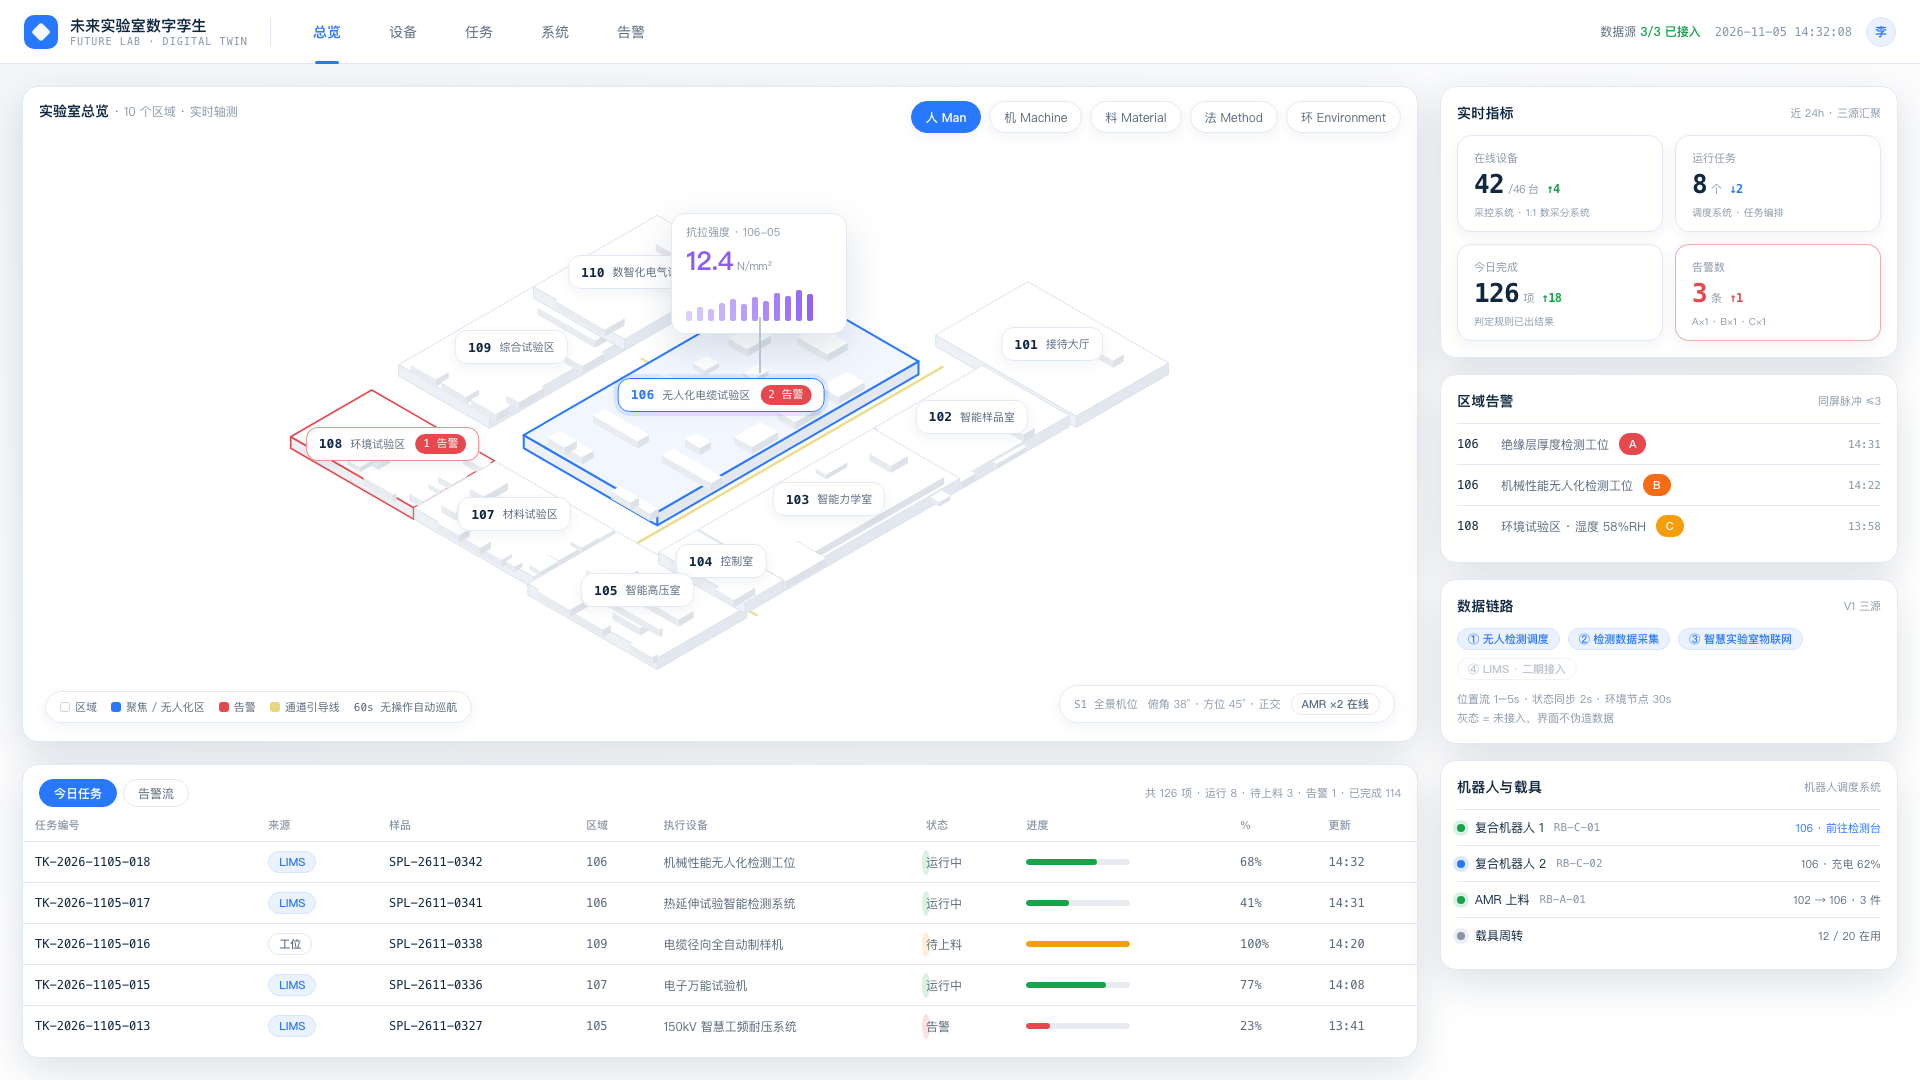
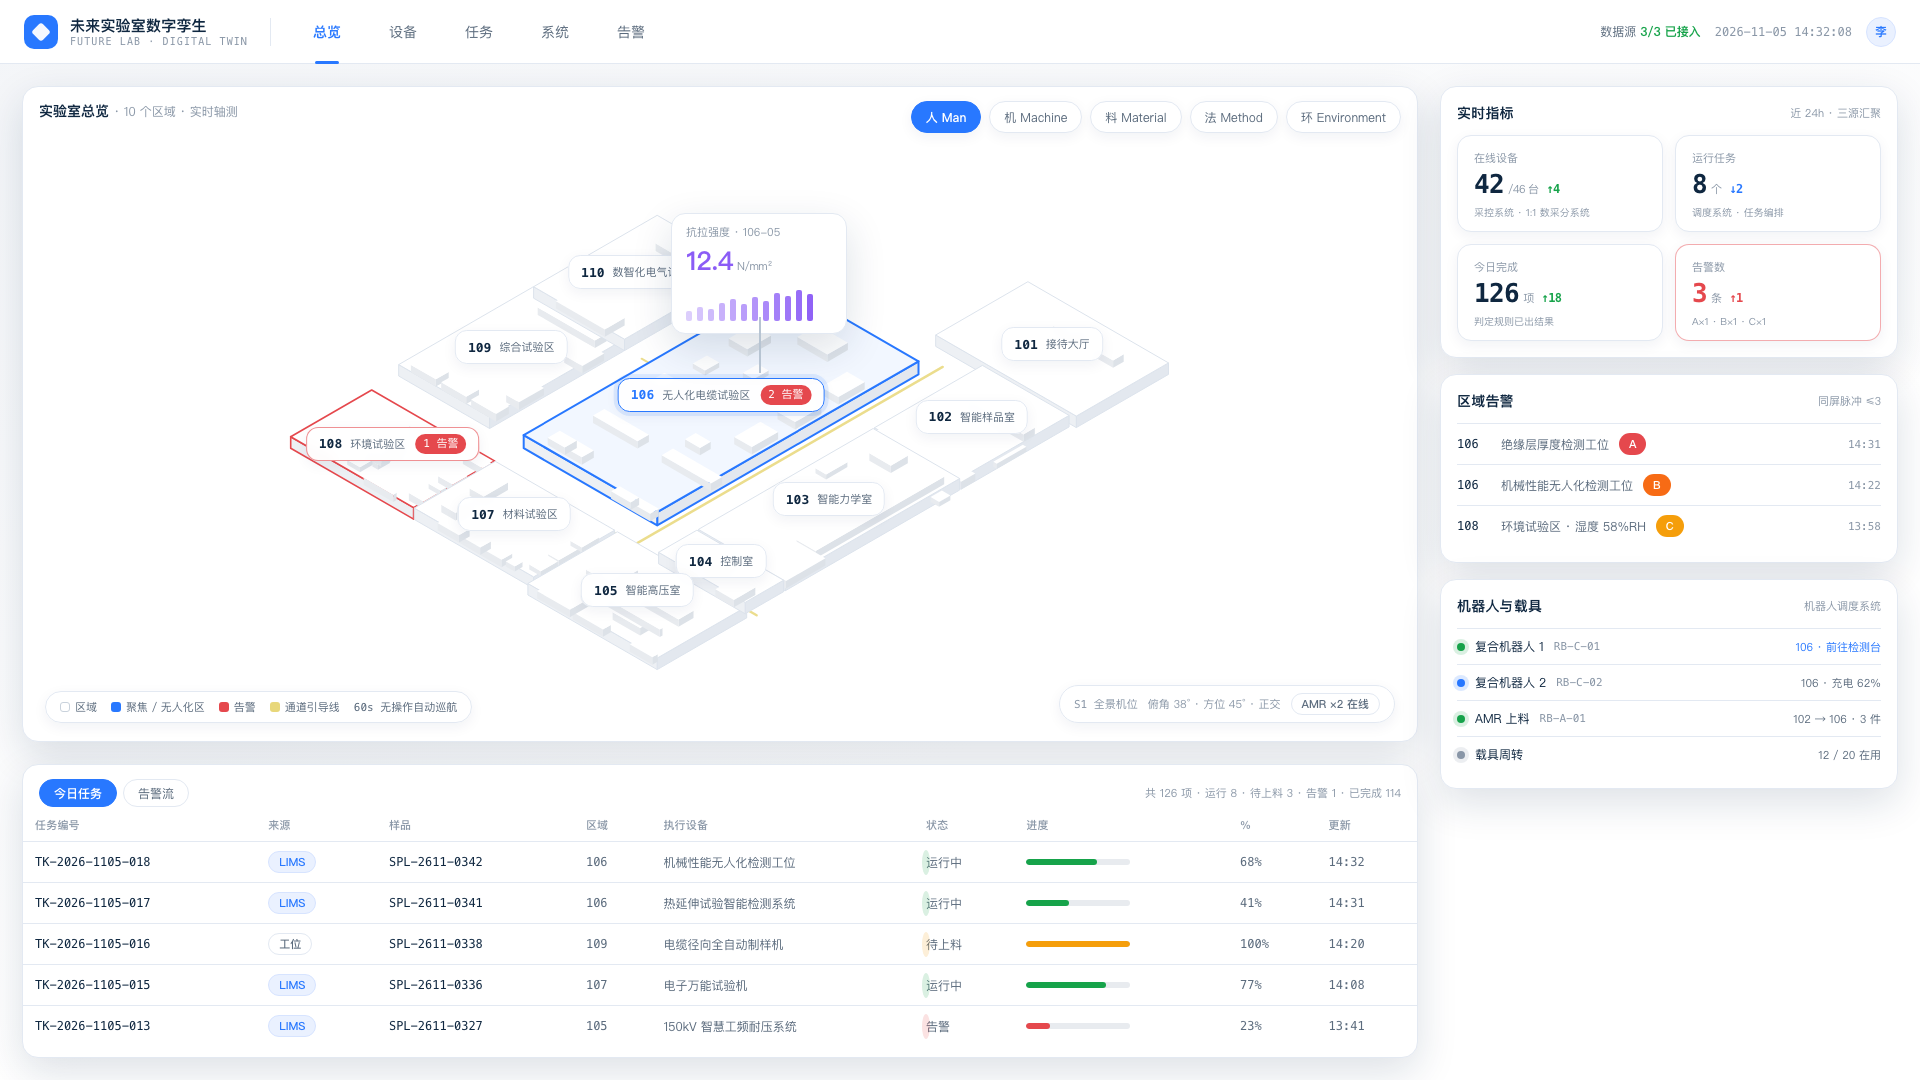
docs(数字孪生): 关键页面导入 Figma「数字孪生」team 并完成原型连线——4 页 html_to_figma 导入 + 19 条页面/弹层连线 + 4 个交互组件集（5M1E×2、底部页签、弹层状态）CHANGE_TO；S1 去掉「数据链路」面板、S3 关联对象改为设备/任务/样品/AMR/复合机器人

Changed region(s): [[0.75, 0.55, 0.9688, 0.7333], [0.75, 0.7639, 0.8125, 0.8861], [0.9375, 0.7639, 0.9688, 0.8556]]

diff --git a/docs/twin-design/figma-import/04-alarm-review.html b/docs/twin-design/figma-import/04-alarm-review.html
@@ -230,9 +230,10 @@ body{font-family:"PingFang SC","Hiragino Sans GB","Microsoft YaHei","Source Han 
     <div class="spark"><i style="height:6px"></i><i style="height:3px"></i><i style="height:4px"></i><i style="height:8px"></i><i style="height:12px"></i><i style="height:9px"></i><i style="height:5px"></i><i style="height:7px"></i><i style="height:18px"></i><i class="hi" style="height:28px"></i><i style="height:22px"></i><i style="height:10px"></i><i style="height:6px"></i><i style="height:4px"></i><i style="height:9px"></i><i style="height:14px"></i></div>
     <div style="display:flex;justify-content:space-between;font-size:10px;color:var(--t3);margin-top:6px" class="num"><span>00:00</span><span>08:00</span><span>14:00</span></div></div>
   <div class="card pnl"><div class="hd"><h3>关联对象</h3><span class="sub">孪生对象模型</span></div>
-    <div class="arow"><span class="dot r"></span><span style="color:var(--t1)">设备</span><span class="num" style="margin-left:auto">106-06</span></div>
-    <div class="arow"><span class="dot b"></span><span style="color:var(--t1)">数采分系统</span><span class="num" style="margin-left:auto">DAQ-SUB-106-06</span></div>
+    <div class="arow"><span class="dot r"></span><span style="color:var(--t1)">设备</span><span class="num" style="margin-left:auto">106-06 绝缘层厚度检测工位</span></div>
     <div class="arow"><span class="dot o"></span><span style="color:var(--t1)">任务</span><span class="num" style="margin-left:auto">TK-2026-1105-018</span></div>
     <div class="arow"><span class="dot a"></span><span style="color:var(--t1)">样品</span><span class="num" style="margin-left:auto">SPL-2611-0342</span></div>
-    <div class="arow"><span class="dot m"></span><span style="color:var(--t1)">LIMS 委托</span><span class="num" style="margin-left:auto">二期接入</span></div></div>
+    <div class="arow"><span class="dot g"></span><span style="color:var(--t1)">AMR 上料</span><span class="num" style="margin-left:auto">RB-A-01 · 载货 3 件</span></div>
+    <div class="arow"><span class="dot b"></span><span style="color:var(--t1)">复合机器人</span><span class="num" style="margin-left:auto">RB-C-01 · 前往 检测台 1</span></div>
+  </div>
 </div></body></html>

diff --git a/docs/twin-design/figma-import/01-overview.html b/docs/twin-design/figma-import/01-overview.html
@@ -197,13 +197,6 @@ body{font-family:"PingFang SC","Hiragino Sans GB","Microsoft YaHei","Source Han 
     <div class="arow"><span class="id num">108</span><span>环境试验区 · 湿度 58%RH</span><span class="pill amb">C</span><span class="t">13:58</span></div>
   </div>
   <div class="card pnl">
-    <div class="hd"><h3>数据链路</h3><span class="sub">V1 三源</span></div>
-    <div class="row" style="flex-wrap:wrap;gap:8px">
-      <span class="pill soft">① 无人检测调度</span><span class="pill soft">② 检测数据采集</span><span class="pill soft">③ 智慧实验室物联网</span>
-      <span class="pill off">④ LIMS · 二期接入</span></div>
-    <div style="font-size:11px;color:var(--t3);margin-top:10px;line-height:1.7">位置流 1–5s · 状态同步 2s · 环境节点 30s<br>灰态 = 未接入，界面不伪造数据</div>
-  </div>
-  <div class="card pnl">
     <div class="hd"><h3>机器人与载具</h3><span class="sub">机器人调度系统</span></div>
     <div class="arow"><span class="dot g"></span><span style="color:var(--t1)">复合机器人 1</span><span class="num" style="color:var(--t3);font-size:11px">RB-C-01</span><span style="margin-left:auto;font-size:11px;color:var(--blue)">106 · 前往检测台</span></div>
     <div class="arow"><span class="dot b"></span><span style="color:var(--t1)">复合机器人 2</span><span class="num" style="color:var(--t3);font-size:11px">RB-C-02</span><span style="margin-left:auto;font-size:11px;color:var(--t2)">106 · 充电 62%</span></div>

diff --git a/docs/twin-design/figma-import/gen_p4.py b/docs/twin-design/figma-import/gen_p4.py
@@ -119,10 +119,11 @@ body = nav("告警") + f"""<style>{EXTRA}
     <div class="spark">{SPARK}</div>
     <div style="display:flex;justify-content:space-between;font-size:10px;color:var(--t3);margin-top:6px" class="num"><span>00:00</span><span>08:00</span><span>14:00</span></div></div>
   <div class="card pnl"><div class="hd"><h3>关联对象</h3><span class="sub">孪生对象模型</span></div>
-    <div class="arow"><span class="dot r"></span><span style="color:var(--t1)">设备</span><span class="num" style="margin-left:auto">106-06</span></div>
-    <div class="arow"><span class="dot b"></span><span style="color:var(--t1)">数采分系统</span><span class="num" style="margin-left:auto">DAQ-SUB-106-06</span></div>
+    <div class="arow"><span class="dot r"></span><span style="color:var(--t1)">设备</span><span class="num" style="margin-left:auto">106-06 绝缘层厚度检测工位</span></div>
     <div class="arow"><span class="dot o"></span><span style="color:var(--t1)">任务</span><span class="num" style="margin-left:auto">TK-2026-1105-018</span></div>
     <div class="arow"><span class="dot a"></span><span style="color:var(--t1)">样品</span><span class="num" style="margin-left:auto">SPL-2611-0342</span></div>
-    <div class="arow"><span class="dot m"></span><span style="color:var(--t1)">LIMS 委托</span><span class="num" style="margin-left:auto">二期接入</span></div></div>
+    <div class="arow"><span class="dot g"></span><span style="color:var(--t1)">AMR 上料</span><span class="num" style="margin-left:auto">RB-A-01 · 载货 3 件</span></div>
+    <div class="arow"><span class="dot b"></span><span style="color:var(--t1)">复合机器人</span><span class="num" style="margin-left:auto">RB-C-01 · 前往 检测台 1</span></div>
+  </div>
 </div>"""
 print(write("04-alarm-review.html", page("alarm", body, "S3 · 告警回溯")))

diff --git a/docs/twin-design/figma-import/gen_p1.py b/docs/twin-design/figma-import/gen_p1.py
@@ -128,13 +128,6 @@ body = nav("总览") + f"""<style>{EXTRA_CSS}</style>
     <div class="arow"><span class="id num">108</span><span>环境试验区 · 湿度 58%RH</span><span class="pill amb">C</span><span class="t">13:58</span></div>
   </div>
   <div class="card pnl">
-    <div class="hd"><h3>数据链路</h3><span class="sub">V1 三源</span></div>
-    <div class="row" style="flex-wrap:wrap;gap:8px">
-      <span class="pill soft">① 无人检测调度</span><span class="pill soft">② 检测数据采集</span><span class="pill soft">③ 智慧实验室物联网</span>
-      <span class="pill off">④ LIMS · 二期接入</span></div>
-    <div style="font-size:11px;color:var(--t3);margin-top:10px;line-height:1.7">位置流 1–5s · 状态同步 2s · 环境节点 30s<br>灰态 = 未接入，界面不伪造数据</div>
-  </div>
-  <div class="card pnl">
     <div class="hd"><h3>机器人与载具</h3><span class="sub">机器人调度系统</span></div>
     <div class="arow"><span class="dot g"></span><span style="color:var(--t1)">复合机器人 1</span><span class="num" style="color:var(--t3);font-size:11px">RB-C-01</span><span style="margin-left:auto;font-size:11px;color:var(--blue)">106 · 前往检测台</span></div>
     <div class="arow"><span class="dot b"></span><span style="color:var(--t1)">复合机器人 2</span><span class="num" style="color:var(--t3);font-size:11px">RB-C-02</span><span style="margin-left:auto;font-size:11px;color:var(--t2)">106 · 充电 62%</span></div>

diff --git a/docs/twin-design/figma-import/README.md b/docs/twin-design/figma-import/README.md
@@ -30,7 +30,29 @@
 - 106 设备清单：`twin/future-lab/visual_106.json` + `equipment_inventory.csv`。
 - 对象字段：《数字孪生对象模型与数据字典 V1.md》——Task.source=LIMS/WORKSTATION、deviceChain 四工位链路、DAQ-SUB 与检测设备 1:1、E9 上下料握手、Grade A→主任台+App / B→工位屏 / C→运维队列。
 
-## 4. Figma 文件当前状态
+## 4. Figma 文件（两个）
+
+**当前主文件（数字孪生 team）**：未来实验室数字孪生 · 关键页面原型 V1 — https://www.figma.com/design/vVKMD1ut298dww1CSUOPkb
+页面 `01 · 关键页面原型` 内 4 个 1920×1080 frame（S1 总览 / S2 106 重点区 / 设备详情弹层 / S3 告警回溯），由本目录 HTML 经 `html_to_figma` 导入，已接好原型：
+
+| 连线 | 触发 | 动作 |
+|---|---|---|
+| S1 区域卡「106 无人化电缆试验区」 | click | Navigate → S2（Smart Animate 300ms） |
+| S1 区域告警行 / 导航「告警」 | click | Navigate → S3 告警回溯 |
+| 导航「设备」 | click | Navigate → S2 |
+| S2 andon 卡 / 设备状态条 / 任务号 | click | **Open overlay** → 设备详情弹层（Dissolve 250ms） |
+| 弹层 ✕ / 关闭 | click | Back（回来源页，状态回落数据源） |
+| S3 列表项 / 关联任务 / 查看原始记录 | click | Open overlay → 设备详情弹层 |
+| 5M1E 胶囊（S1、S2） | click 任一维度 | **Change to** `维度=…` 变体（5 变体交互组件） |
+| 底部「今日任务 / 告警流」 | click | Change to `页签=…` 变体 |
+| 弹层「运行 / 告警 / 离线 / 维护」 | click | Change to `状态=…` 变体（4 变体） |
+
+交互组件集：`Nav/5M1E`、`Nav/5M1E · S2`、`Segment/底部页签`、`Segment/弹层状态`（组件集放在画布外 x=-4200，实例已回原位）。
+注：`Change to` 指向自身变体时 Figma 拒绝建连线（点当前已选中的胶囊无反应，符合预期）。
+
+---
+
+## 4b. 旧文件（个人 team，Starter 额度已用尽）
 
 文件：**未来实验室数字孪生 · 关键页面原型 V1** — https://www.figma.com/design/KTfYjgOvvFcBopH15m0UV1
 
